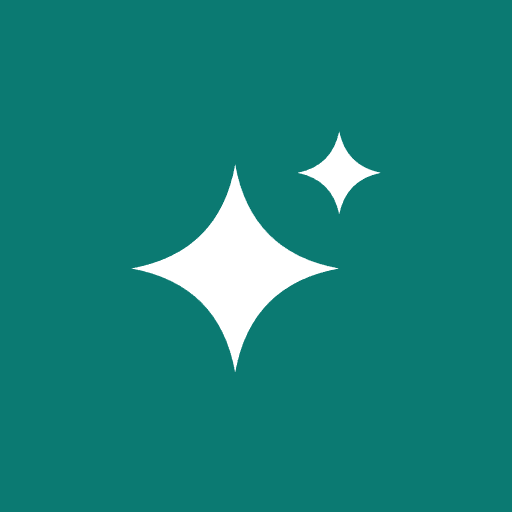
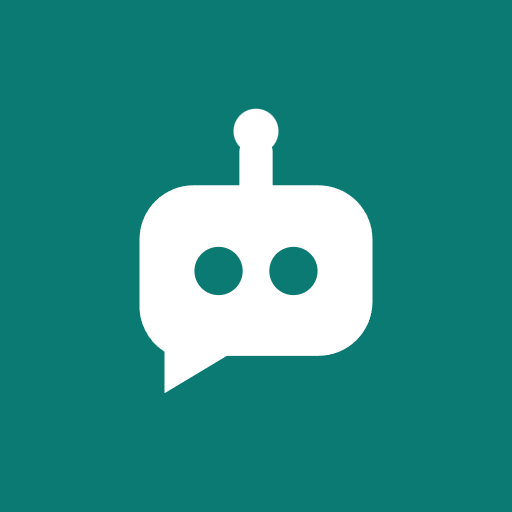
fix: o logótipo do Assistente passa a ser o robô de conversa (v0.19.1)
As estrelas não diziam «assistente de IA». O glifo é agora um robô cuja
cabeça é um balão de conversa (cauda em baixo à esquerda), com dois olhos
recortados e a antena — lê-se «chat de IA» à primeira vista, no mosaico e
sem base. No GlifoApp os recortes (`k`) passam a ser furos verdadeiros
(máscara), para os olhos aparecerem em qualquer tema.

Changed region(s): [[0.25, 0.1875, 0.75, 0.7812]]

diff --git a/src/icone-app.tsx b/src/icone-app.tsx
@@ -66,6 +66,11 @@ export function GlifoApp({
   titulo?: string | undefined;
   className?: string | undefined;
 }) {
+  // The cut-outs (`k`, the base colour on the tile) become real holes here: a mask,
+  // so they show whatever is behind the button in any theme.
+  const mascara = `m-glifo-furos-${app}`; // the same mask for every instance of an app
+  const formas = GLIFOS_APPS[app];
+  const furos = formas.filter((f) => f.papel === "k");
   return (
     <svg
       viewBox="4 4 16 16"
@@ -78,9 +83,27 @@ export function GlifoApp({
       aria-hidden={titulo ? undefined : true}
       focusable="false"
     >
-      {GLIFOS_APPS[app].map((f, i) => (
-        <Forma key={i} f={f} />
-      ))}
+      {furos.length > 0 ? (
+        <defs>
+          <mask id={mascara} maskUnits="userSpaceOnUse" x="0" y="0" width="24" height="24">
+            <rect width="24" height="24" fill="#fff" />
+            {furos.map((f, i) =>
+              f.t === "circulo" ? (
+                <circle key={i} cx={f.x} cy={f.y} r={f.r} fill="#000" />
+              ) : (
+                <path key={i} d={f.d} fill="#000" />
+              ),
+            )}
+          </mask>
+        </defs>
+      ) : null}
+      <g mask={furos.length > 0 ? `url(#${mascara})` : undefined}>
+        {formas
+          .filter((f) => f.papel !== "k")
+          .map((f, i) => (
+            <Forma key={i} f={f} />
+          ))}
+      </g>
     </svg>
   );
 }

diff --git a/src/icones.ts b/src/icones.ts
@@ -86,11 +86,15 @@ export const GLIFOS_APPS: Record<MutualAppId, readonly FormaGlifo[]> = {
     { t: "circulo", x: 8.75, y: 7.625, r: 1.5, papel: "k" },
     { t: "circulo", x: 8.75, y: 16.375, r: 1.5, papel: "k" },
   ],
-  // Assistente — the spark: a large four-pointed star and a small one (2026-10-01:
-  // the speech bubble read as «chat», not as «assistant»).
+  // Assistente — the AI chat: a bot whose head is a speech bubble (tail bottom-left),
+  // two eyes cut out and the antenna (2026-10-01: a bubble alone read as «chat», the
+  // stars as nothing in particular; the owner wants it to say «AI chat» at once).
   assistente: [
-    { t: "cheio", d: "M10.75 6.5q.95 5.3 6.25 6.25-5.3.95-6.25 6.25-.95-5.3-6.25-6.25 5.3-.95 6.25-6.25Z" },
-    { t: "cheio", d: "M17 4.5q.42 2.08 2.5 2.5-2.08.42-2.5 2.5-.42-2.08-2.5-2.5 2.08-.42 2.5-2.5Z", papel: "r" },
+    { t: "cheio", d: "M8.25 7.75h7.5a3.25 3.25 0 0 1 3.25 3.25v3.75a3.25 3.25 0 0 1-3.25 3.25h-5.5L6.5 20.25v-2.5A3.25 3.25 0 0 1 5 14.75V11a3.25 3.25 0 0 1 3.25-3.25Z" },
+    { t: "circulo", x: 9.75, y: 12.9, r: 1.45, papel: "k" },
+    { t: "circulo", x: 14.25, y: 12.9, r: 1.45, papel: "k" },
+    { t: "traco", d: "M12 7.75V5.75", papel: "r" },
+    { t: "circulo", x: 12, y: 4.5, r: 1.35, papel: "r" },
   ],
   // Protocolos — two linked rings: two parties, one agreement.
   protocolos: [

diff --git a/docs/guia/shell.md b/docs/guia/shell.md
@@ -71,7 +71,8 @@ Never tinted with the app colour.
 - `GlifoApp({ app, tamanho?, titulo? })`: the same glyph WITHOUT the base, in `currentColor` (follows
   light, dark, Alto contraste and forced colours). For buttons and titles that name an app — the top-bar
   «Assistente», the chat title, the assistant actions («Preencher a partir de um documento», drafts).
-  The Assistente mark is the spark (two four-pointed stars), never Lucide `Sparkles` or a speech bubble.
+  The Assistente mark is the AI chat bot (a speech-bubble head with two eyes and an antenna), never Lucide
+  `Sparkles`, stars or a plain speech bubble. Cut-outs (`k`) are real holes (a mask) in `GlifoApp`.
 
 ## Page parts
 
